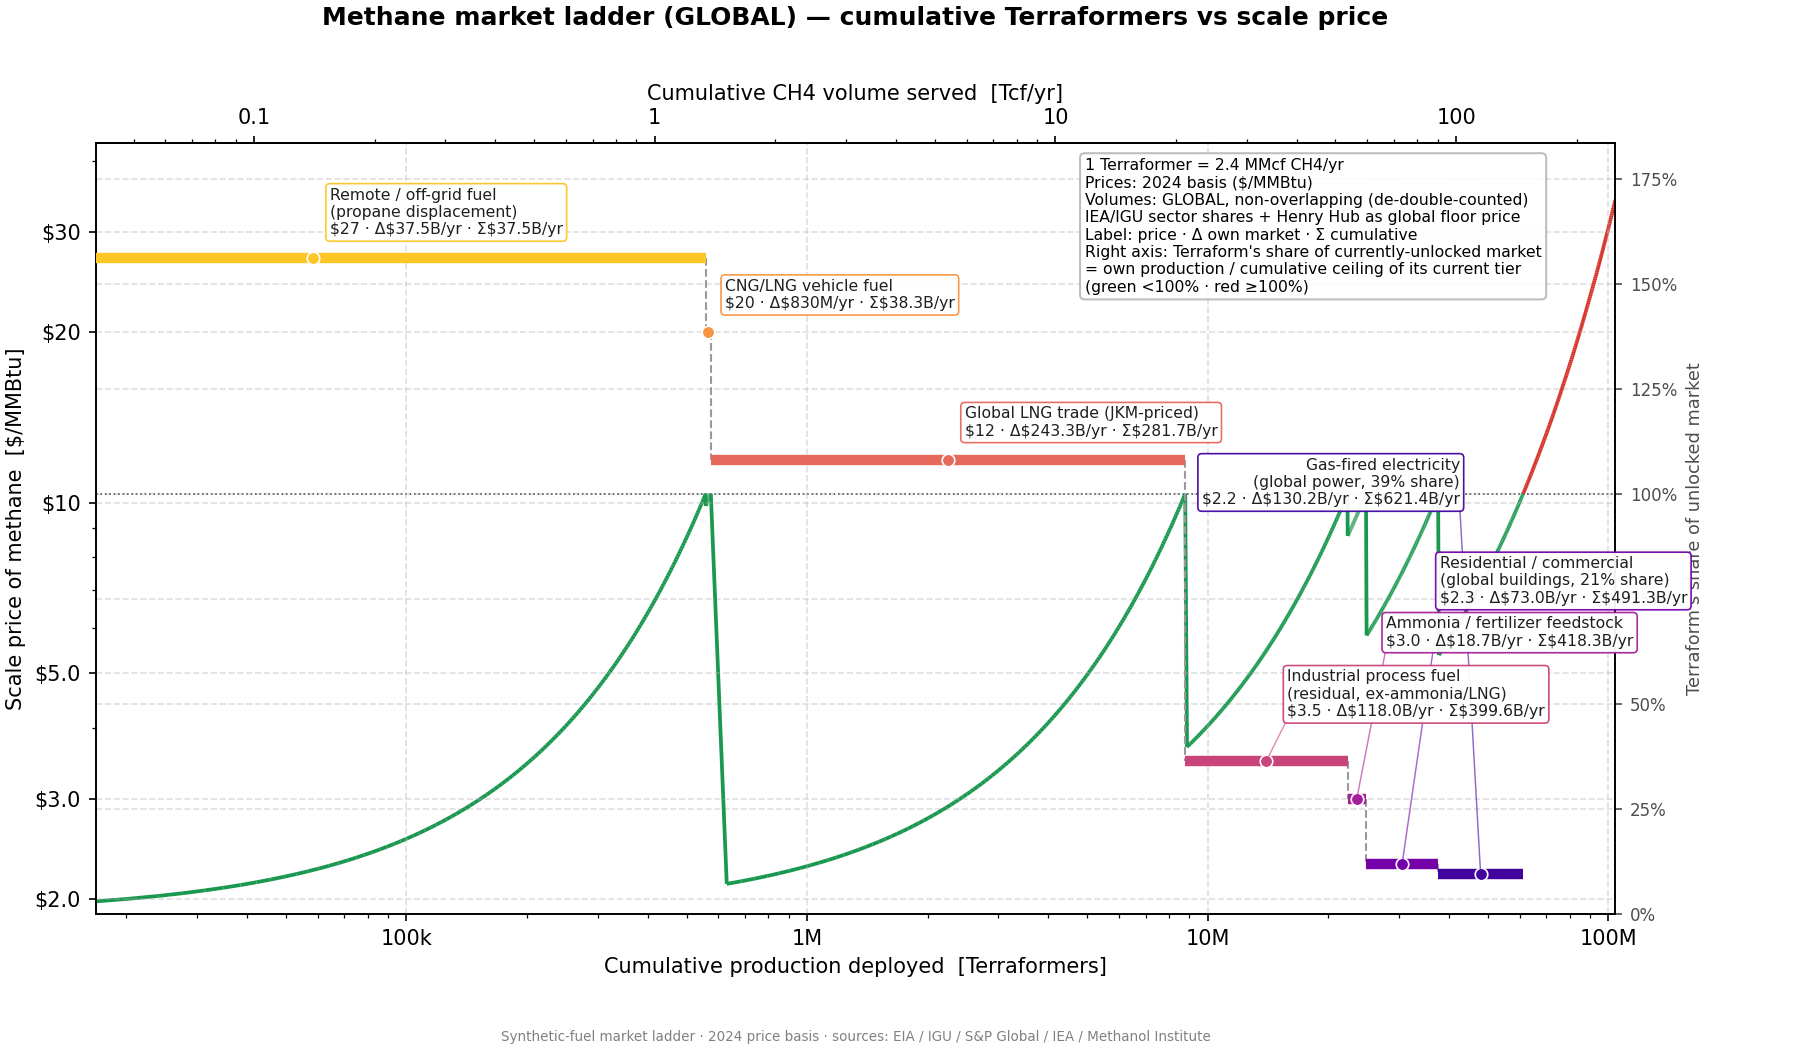
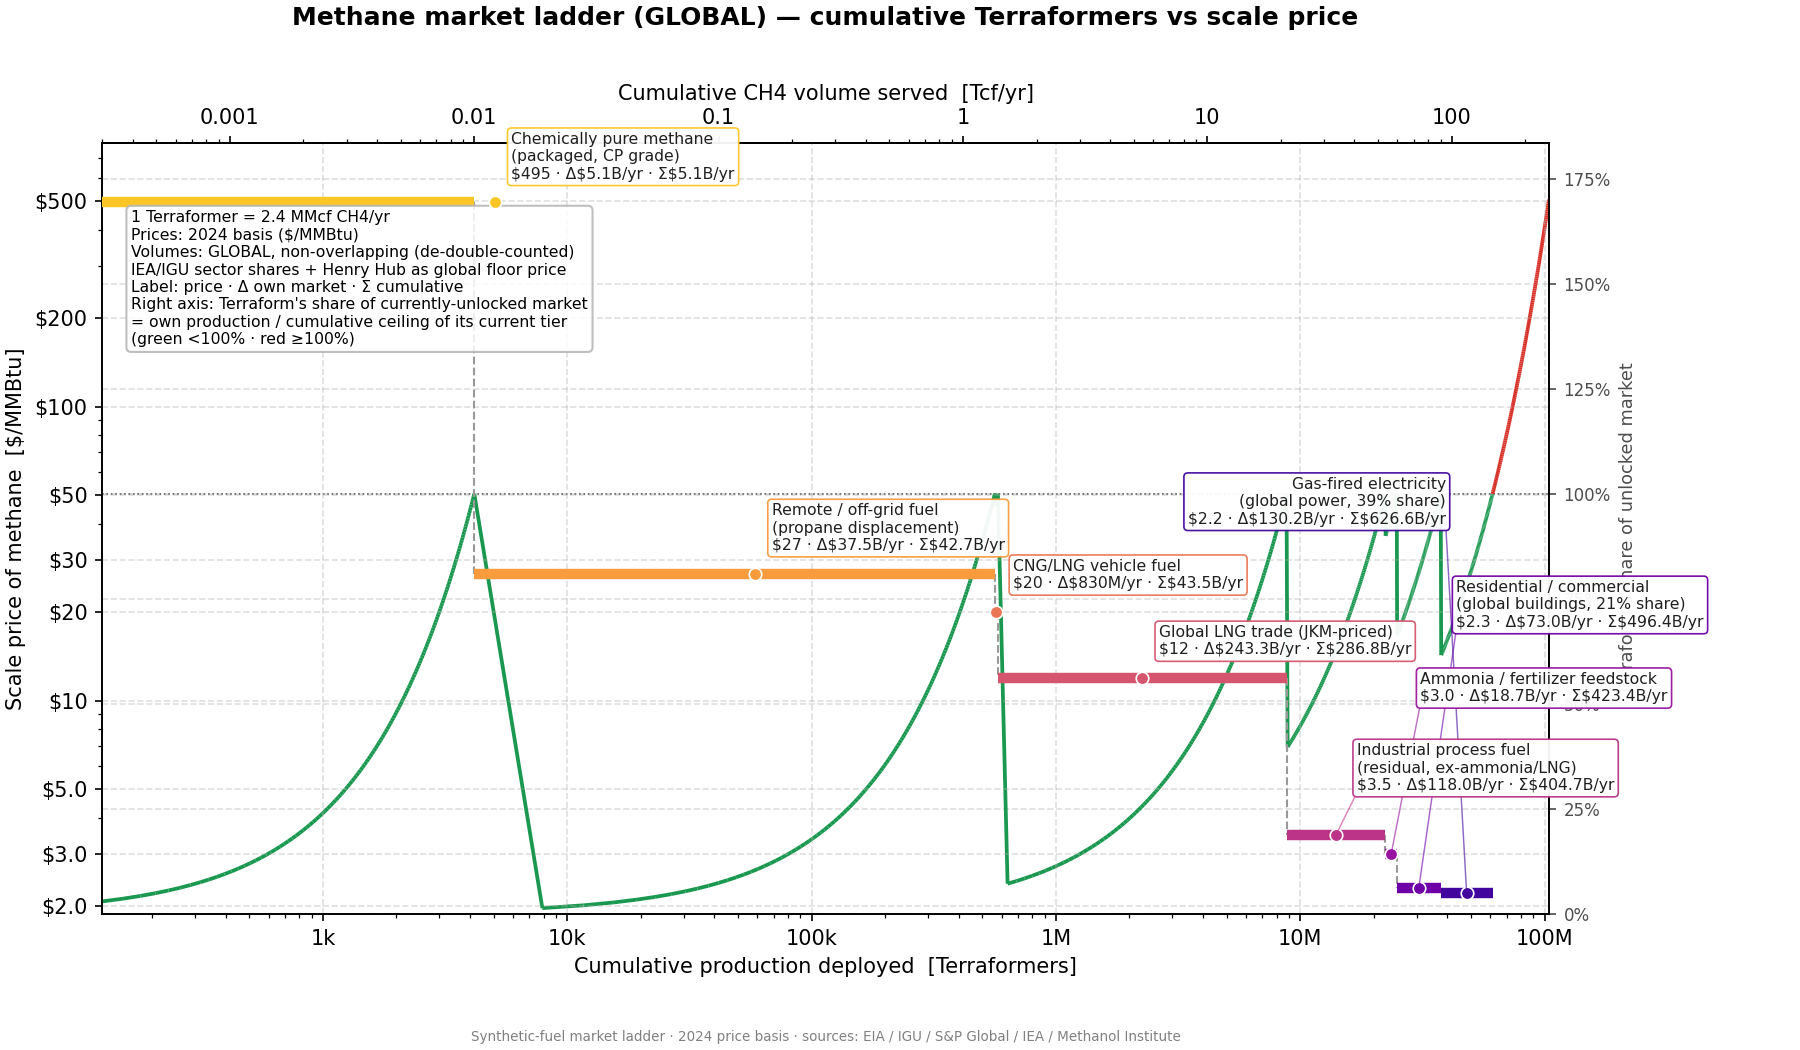
share

diff --git a/Terraform-Market-Ladder/terraformer_market_ladder.py b/Terraform-Market-Ladder/terraformer_market_ladder.py
@@ -107,10 +107,22 @@ class LadderStep:
 #                            volumes — no global physical-volume source was found for these
 #                            two niche tiers. At <1% of the 145.6 Tcf total, layering them on
 #                            top is an immaterial, flagged approximation, not a sourced figure.
-#   Industrial/residential reference prices are US benchmarks (EIA) used as a GLOBAL proxy in
-#   the absence of a single blended global price — same convention Casey's own chart uses for
-#   Henry Hub as a "global bulk" floor price.
+#   Chemically pure methane (packaged, CP grade): $495/MMBtu is Terraform's own stated price
+#                            for this tier, used directly (not re-derived). Cross-checked against
+#                            independently sourced cylinder-gas comparables: US retail specialty
+#                            cylinders (CalGasDirect/GASCO CP 99.5%, 305-650L) run ~$29,400-
+#                            60,200/MMBtu, and a Chinese bulk-wholesale cylinder listing (Forterra
+#                            Gas, 99.9-99.999%, 40L @150 bar, 200+ unit rate) computes to
+#                            ~$226-242/MMBtu after a real-gas compressibility correction (Z~0.87
+#                            at 150 bar). $495/MMBtu sits ~2x above that bulk-wholesale floor and
+#                            ~60-400x below retail cylinder pricing — a believable "packaged,
+#                            bulk-delivered, no retail markup" price point, not an outlier.
+#                            Volume is a small ILLUSTRATIVE placeholder (no sourced market-size
+#                            figure exists for this niche a specialty-gas slice) — set smaller
+#                            than the other illustrative tiers above, consistent with "small but
+#                            high price."
 METHANE_MARKETS_GLOBAL = [
+    Market("Chemically pure methane\n(packaged, CP grade)", 495.00, 0.01),
     Market("Remote / off-grid fuel\n(propane displacement)", 27.00, 1.34),
     Market("CNG/LNG vehicle fuel", 20.00, 0.04),
     Market("Global LNG trade (JKM-priced)", 11.91, 19.7),
@@ -238,6 +250,66 @@ def build_ladder(markets: list[Market], terraformers_per_vol: float,
 
 
 # --------------------------------------------------------------------------------------
+# MODEL — Wright's Law cost decline: how much production is needed to unlock each tier,
+# and what fraction of that tier's own market that production represents.
+# --------------------------------------------------------------------------------------
+LEARNING_RATE = 0.20              # cost falls 20% every time cumulative production doubles
+START_TERRAFORMERS = 1.0          # Q0: starting cumulative production
+START_COST_PER_MMBTU = 45.0       # cost0: methane synthesis cost at Q0, $/MMBtu
+START_COST_PER_TONNE_METHANOL = 800.0   # cost0: methanol synthesis cost at Q0, $/t (matches
+                                          # Casey's own methanol starting point — above every
+                                          # feedstock-value tier's price, so all 7 need a step)
+
+
+def wrights_law_b(learning_rate: float) -> float:
+    """Wright's law exponent b in cost(Q) = cost0 * (Q/Q0)^-b, derived from the learning rate:
+    cost multiplies by (1 - learning_rate) every time cumulative production Q doubles."""
+    return -np.log2(1.0 - learning_rate)
+
+
+@dataclass
+class UnlockStep:
+    """One tier's cost-decline unlock point: how much cumulative production Wright's Law says
+    is needed for synthesis cost to reach this tier's price, and what fraction of this tier's
+    OWN market-size ceiling that production represents."""
+    tier_name: str
+    tier_price: float                  # $/MMBtu price of the tier being unlocked
+    cum_terraformers_required: float   # Q_i: cumulative production needed to reach tier_price
+    additional_terraformers: float     # Q_i - Q_(i-1): incremental production for this step
+    tier_ceiling_terraformers: float   # H_i: this tier's own cumulative market-size ceiling
+    market_share_required: float       # Q_i / H_i — can be tiny; see module docstring findings
+    multiple_of_previous: float        # Q_i / Q_(i-1) — e.g. 4.9 means "4.9x current production"
+    cost_decrease_pct: float           # % cost must fall THIS step: (prev_price - price) / prev_price
+
+
+def compute_unlock_steps(steps: list[LadderStep], learning_rate: float,
+                         start_terraformers: float, start_cost: float) -> list[UnlockStep]:
+    """Walk the ladder (already price-descending) and compute, for every tier NOT already
+    unlocked at the starting cost, the cumulative production Wright's Law requires to reach
+    that tier's price, and the resulting share of that tier's own market ceiling.
+
+    Tiers priced at or above start_cost are skipped — they're already profitable at Q0, no
+    cost decline needed. This mirrors add_market_share_axis()'s share = x / H_current_tier
+    definition exactly, just evaluated at cost-derived x values instead of a continuous sweep.
+    """
+    b = wrights_law_b(learning_rate)
+    results: list[UnlockStep] = []
+    prev_q = start_terraformers
+    prev_price = start_cost
+    for s in steps:
+        if s.price >= start_cost:
+            continue
+        q_i = start_terraformers * (start_cost / s.price) ** (1.0 / b)
+        q_i = max(q_i, prev_q)
+        cost_decrease_pct = (prev_price - s.price) / prev_price * 100.0
+        results.append(UnlockStep(s.name, s.price, q_i, q_i - prev_q, s.cum_hi,
+                                  q_i / s.cum_hi, q_i / prev_q, cost_decrease_pct))
+        prev_q = q_i
+        prev_price = s.price
+    return results
+
+
+# --------------------------------------------------------------------------------------
 # PLOTTING — one draw() for both ladders
 # --------------------------------------------------------------------------------------
 def _fmt_dollars(v: float) -> str:
@@ -334,7 +406,7 @@ _DEFAULT_OFFSET = (8, 10, "left", "bottom")
 
 def draw(ax, fig, steps: list[LadderStep], *, title: str, y_label: str, x_top_label: str,
          top_per_terraformer_vol: float, yscale: str, price_fmt, y_ticks,
-         top_fmt, label_offsets: dict, param_text: str) -> None:
+         top_fmt, label_offsets: dict, param_text: str, show_market_share: bool = True) -> None:
     """Draw a descending market-ladder staircase with annotated steps.
 
     top_per_terraformer_vol : native volume per Terraformer, to label a secondary top x-axis
@@ -344,6 +416,9 @@ def draw(ax, fig, steps: list[LadderStep], *, title: str, y_label: str, x_top_la
                               never a distant shared column. Tune only the overlapping
                               neighbours (see skill: "Labels overlap into mush"); unlisted
                               names fall back to _DEFAULT_OFFSET.
+    show_market_share       : add the secondary "Terraform's share of unlocked market" axis.
+                              Off produces the plain market ladder (price vs. cumulative
+                              production only) — same core chart, no twin axis at all.
     """
     n = len(steps)
     colors = cm.plasma_r(np.linspace(0.12, 0.9, n))
@@ -422,7 +497,12 @@ def draw(ax, fig, steps: list[LadderStep], *, title: str, y_label: str, x_top_la
     secax.xaxis.set_major_formatter(FuncFormatter(lambda v, _: top_fmt(v)))
     secax.xaxis.set_minor_formatter(NullFormatter())
 
-    add_market_share_axis(ax, steps)
+    if show_market_share:
+        add_market_share_axis(ax, steps)
+        param_text = (param_text + "\n"
+                      "Right axis: Terraform's share of currently-unlocked market\n"
+                      "= own production / cumulative ceiling of its current tier\n"
+                      "(green <100% · red ≥100%)")
 
     # Signature footer (fixed, below the axes — never competes with the in-axes scan below).
     ax.text(0.5, -0.15, SIGNATURE, transform=ax.transAxes, ha="center", va="top",
@@ -435,6 +515,68 @@ def draw(ax, fig, steps: list[LadderStep], *, title: str, y_label: str, x_top_la
     # fights our global constrained_layout=True (it broke the left price-axis entirely). Stick
     # with mode="on" — the twin axis's line/ticks are made visible to this scan via the phantom
     # mirror artists added at the end of add_market_share_axis(), above.
+    info_box.add_info_box(ax, fig, param_text, mode="on", fontsize=7.5)
+
+
+def draw_unlock_bar_chart(ax, fig, unlock_steps: list[UnlockStep], *, title: str,
+                          param_text: str) -> None:
+    """Bar chart: one bar per tier, x = tier (in unlock order), y = market_share_required —
+    the fraction of that tier's own market ceiling that Wright's-Law-implied cumulative
+    production represents at the moment synthesis cost first reaches that tier's price.
+
+    Log-scale y-axis: real values here span ~0.0007%-0.03% (~40x range) — a linear axis would
+    render every bar as visually zero. Log is what makes the actual spread readable.
+    """
+    n = len(unlock_steps)
+    colors = cm.plasma_r(np.linspace(0.12, 0.9, n))
+    x = np.arange(n)
+    shares_pct = [u.market_share_required * 100 for u in unlock_steps]
+
+    ax.bar(x, shares_pct, color=colors, edgecolor="0.3", linewidth=0.8, zorder=3)
+    for xi, u, pct in zip(x, unlock_steps, shares_pct):
+        # Everything for one bar stacks VERTICALLY, directly above that bar and nothing else —
+        # each line kept short enough to stay within the bar's own horizontal footprint, so
+        # neighbouring bars' text can never collide regardless of bar height (no zigzag needed).
+        # Floats above the bar (white background), not inside its colored fill — grey text read
+        # fine against light yellow/orange bars but was illegible against the dark purple end.
+        ax.annotate(f"{pct:.4f}%", xy=(xi, pct), xytext=(0, 26), textcoords="offset points",
+                    ha="center", va="bottom", fontsize=8, weight="bold", zorder=5)
+        ax.annotate(f"Q={_human(u.cum_terraformers_required)} ({u.multiple_of_previous:.1f}x)\n"
+                   f"cost −{u.cost_decrease_pct:.1f}%",
+                    xy=(xi, pct), xytext=(0, 4), textcoords="offset points",
+                    ha="center", va="bottom", fontsize=6.3, color="0.3", zorder=5, linespacing=1.4)
+
+    ax.set_xticks(x)
+    ax.set_xticklabels([u.tier_name.replace("\n", " ") for u in unlock_steps],
+                       rotation=30, ha="right", fontsize=8)
+    ax.set_yscale("log")
+    ax.set_ylabel("Required market share to unlock this tier\n(cumulative production ÷ tier's own market ceiling)")
+    ax.set_xlabel("Step (tier unlocked, in order)")
+    ax.set_title(title, fontsize=12, weight="bold", pad=14)
+    ax.yaxis.set_major_formatter(FuncFormatter(lambda v, _: f"{v:g}%"))
+    ax.set_ylim(min(shares_pct) * 0.5, max(shares_pct) * 6.0)
+    ax.margins(x=0.06)
+
+    # info_box's occupancy scan checks ax.get_lines() and ax.collections — it never looks at
+    # ax.patches, so it is completely blind to ax.bar()'s Rectangle patches and can place the
+    # box right on top of a tall bar (happened here: methanol's tallest bars sit at the left,
+    # where the scan otherwise had no text/lines to avoid). Mirroring just the bar's OUTLINE
+    # (4 corners) was tried first and didn't work: the scan scores occupancy by counting
+    # sampled points that fall INSIDE a candidate box, so a box positioned entirely within the
+    # bar's interior (never touching the 4 corner points) still scored as empty. Fill each
+    # bar's full rectangle with a point grid instead, so any overlap is detected everywhere,
+    # not just at the edges. Log-spaced in y to match the log axis's actual pixel density.
+    y_bottom = ax.get_ylim()[0]
+    bar_width = 0.8
+    for xi, pct in zip(x, shares_pct):
+        bx0, bx1 = xi - bar_width / 2, xi + bar_width / 2
+        xs_grid = np.linspace(bx0, bx1, 6)
+        ys_grid = np.geomspace(max(y_bottom, 1e-12), pct, 6)
+        xx, yy = np.meshgrid(xs_grid, ys_grid)
+        ax.plot(xx.ravel(), yy.ravel(), alpha=0, marker=".", linestyle="none")
+
+    ax.text(0.5, -0.34, SIGNATURE, transform=ax.transAxes, ha="center", va="top",
+           fontsize=6.5, color="0.5")
     info_box.add_info_box(ax, fig, param_text, mode="on", fontsize=7.5)
 
 
@@ -457,10 +599,7 @@ def figures():
                       "Prices: 2024 basis ($/MMBtu)\n"
                       "Volumes: GLOBAL, non-overlapping (de-double-counted)\n"
                       "IEA/IGU sector shares + Henry Hub as global floor price\n"
-                      "Label: price · Δ own market · Σ cumulative\n"
-                      "Right axis: Terraform's share of currently-unlocked market\n"
-                      "= own production / cumulative ceiling of its current tier\n"
-                      "(green <100% · red ≥100%)")
+                      "Label: price · Δ own market · Σ cumulative")
 
     # Methanol (feedstock) clusters near $340-380: same cascade-from-own-dot treatment.
     methanol_fs_offsets = {
@@ -474,10 +613,7 @@ def figures():
                        "y = methanol netback / reference value\n"
                        "FEEDSTOCK-VALUE approach: Terraform sells methanol,\n"
                        "not the converted end-product (see MTX-TAM variant)\n"
-                       "Label: price · Δ own market · Σ cumulative\n"
-                       "Right axis: Terraform's share of currently-unlocked market\n"
-                       "= own production / cumulative ceiling of its current tier\n"
-                       "(green <100% · red ≥100%)")
+                       "Label: price · Δ own market · Σ cumulative")
 
     # Methanol (MTX-TAM): same $340-380 cluster, plus the 223/190/167 gasoline-diesel-jet
     # cluster now needs its own cascade (their Terraformer widths are huge, spreading them out
@@ -500,12 +636,12 @@ def figures():
                        "Non-MTX tiers still feedstock-value (unchanged)\n"
                        "Conversion ratios: MTG 2.584 (sourced, Motunui); others\n"
                        "2.9 (MTO rule-of-thumb, extended to diesel/jet — ASSUMPTION)\n"
-                       "Label: price · Δ own market · Σ cumulative\n"
-                       "Right axis: Terraform's share of currently-unlocked market\n"
-                       "= own production / cumulative ceiling of its current tier\n"
-                       "(green <100% · red ≥100%)")
+                       "Label: price · Δ own market · Σ cumulative")
 
-    def build_methane():
+    # Every chart comes in two variants: with the market-share twin axis, and the plain ladder
+    # (price vs. cumulative production only) — same underlying draw(), just show_market_share
+    # toggled and a "_no_share" filename suffix for the plain version.
+    def build_methane(share: bool):
         fig, ax = render.new_figure(figsize=(12, 7))
         draw(ax, fig, methane,
              title="Methane market ladder (GLOBAL) — cumulative Terraformers vs scale price",
@@ -514,13 +650,49 @@ def figures():
              top_per_terraformer_vol=TERRAFORMER_CH4_MMCF_YR / MMCF_PER_TCF,  # Tcf per Terraformer
              yscale="log",
              price_fmt=lambda p: f"${p:,.0f}" if p >= 10 else f"${p:,.1f}",
-             y_ticks=[2, 3, 5, 10, 20, 30],
+             y_ticks=[2, 3, 5, 10, 20, 30, 50, 100, 200, 500],
              top_fmt=lambda v: f"{v:g}",
              label_offsets=methane_offsets,
-             param_text=methane_params)
-        return fig, OUTPUT_ROOT / "methane_market_ladder.png"
+             param_text=methane_params, show_market_share=share)
+        suffix = "" if share else "_no_share"
+        return fig, OUTPUT_ROOT / f"methane_market_ladder{suffix}.png"
 
-    def build_methanol_feedstock():
+    def build_methane_unlock_bars(learning_rate: float):
+        rate_steps = compute_unlock_steps(methane, learning_rate, START_TERRAFORMERS,
+                                          START_COST_PER_MMBTU)
+        params = (f"Wright's Law: {learning_rate:.0%} learning rate\n"
+                 f"Start: {START_TERRAFORMERS:g} Terraformer @ ${START_COST_PER_MMBTU:.0f}/MMBtu\n"
+                 "Required share = cumulative production needed for\n"
+                 "cost to reach that tier's price, ÷ tier's own market ceiling\n"
+                 "\"Chemically pure methane\" tier excluded — already\n"
+                 "unlocked at the starting cost, no cost decline needed")
+        fig, ax = render.new_figure(figsize=(12, 7))
+        draw_unlock_bar_chart(ax, fig, rate_steps,
+                              title=f"Methane: required market share to unlock each tier"
+                                   f" (Wright's Law, {learning_rate:.0%} LR)",
+                              param_text=params)
+        return fig, OUTPUT_ROOT / f"methane_unlock_share_bars_lr{learning_rate * 100:.0f}.png"
+
+    def build_methanol_unlock_bars(learning_rate: float):
+        # methanol_fs tiers top out at $600/t, below the $800/t starting cost — every tier
+        # (unlike methane's pre-unlocked "chemically pure" beachhead) needs a cost-decline step.
+        rate_steps = compute_unlock_steps(methanol_fs, learning_rate, START_TERRAFORMERS,
+                                          START_COST_PER_TONNE_METHANOL)
+        params = (f"Wright's Law: {learning_rate:.0%} learning rate\n"
+                 f"Start: {START_TERRAFORMERS:g} Terraformer @"
+                 f" ${START_COST_PER_TONNE_METHANOL:.0f}/t (Casey's own starting point)\n"
+                 "Required share = cumulative production needed for\n"
+                 "cost to reach that tier's price, ÷ tier's own market ceiling\n"
+                 "Feedstock-value ladder: every tier priced below the\n"
+                 "starting cost — all 7 tiers need a cost-decline step")
+        fig, ax = render.new_figure(figsize=(12, 7))
+        draw_unlock_bar_chart(ax, fig, rate_steps,
+                              title=f"Methanol: required market share to unlock each tier"
+                                   f" (Wright's Law, {learning_rate:.0%} LR)",
+                              param_text=params)
+        return fig, OUTPUT_ROOT / f"methanol_unlock_share_bars_lr{learning_rate * 100:.0f}.png"
+
+    def build_methanol_feedstock(share: bool):
         fig, ax = render.new_figure(figsize=(12, 7))
         draw(ax, fig, methanol_fs,
              title="Methanol market ladder (feedstock-value) — cumulative Terraformers vs scale price",
@@ -532,10 +704,11 @@ def figures():
              y_ticks=None,
              top_fmt=lambda v: f"{v:g}",
              label_offsets=methanol_fs_offsets,
-             param_text=methanol_fs_params)
-        return fig, OUTPUT_ROOT / "methanol_market_ladder.png"
+             param_text=methanol_fs_params, show_market_share=share)
+        suffix = "" if share else "_no_share"
+        return fig, OUTPUT_ROOT / f"methanol_market_ladder{suffix}.png"
 
-    def build_methanol_tam():
+    def build_methanol_tam(share: bool):
         fig, ax = render.new_figure(figsize=(12, 7))
         draw(ax, fig, methanol_tam,
              title="Methanol market ladder (destination-product TAM) — cumulative Terraformers vs scale price",
@@ -547,12 +720,19 @@ def figures():
              y_ticks=None,
              top_fmt=lambda v: f"{v:g}",
              label_offsets=methanol_tam_offsets,
-             param_text=methanol_tam_params)
-        return fig, OUTPUT_ROOT / "methanol_market_ladder_mtx_tam.png"
+             param_text=methanol_tam_params, show_market_share=share)
+        suffix = "" if share else "_no_share"
+        return fig, OUTPUT_ROOT / f"methanol_market_ladder_mtx_tam{suffix}.png"
 
-    return [("methane", build_methane),
-            ("methanol_feedstock", build_methanol_feedstock),
-            ("methanol_mtx_tam", build_methanol_tam)]
+    return [("methane_with_share", lambda: build_methane(True)),
+            ("methane_no_share", lambda: build_methane(False)),
+            ("methane_unlock_bars_lr20", lambda: build_methane_unlock_bars(0.20)),
+            ("methanol_unlock_bars_lr20", lambda: build_methanol_unlock_bars(0.20)),
+            ("methanol_unlock_bars_lr10", lambda: build_methanol_unlock_bars(0.10)),
+            ("methanol_feedstock_with_share", lambda: build_methanol_feedstock(True)),
+            ("methanol_feedstock_no_share", lambda: build_methanol_feedstock(False)),
+            ("methanol_mtx_tam_with_share", lambda: build_methanol_tam(True)),
+            ("methanol_mtx_tam_no_share", lambda: build_methanol_tam(False))]
 
 
 if __name__ == "__main__":
@@ -578,3 +758,15 @@ if __name__ == "__main__":
     total_meoh_equiv_mt = meoh_tam[-1].cum_hi / TERRAFORMERS_PER_MT_MEOH
     print(f"Full MTX-TAM build-out implies ~{total_meoh_equiv_mt:,.0f} Mt/yr methanol-equivalent production"
           f" — ~{total_meoh_equiv_mt/100:.0f}x today's entire global methanol market (~100 Mt/yr).")
+
+    unlock_steps = compute_unlock_steps(methane_g, LEARNING_RATE, START_TERRAFORMERS, START_COST_PER_MMBTU)
+    last = unlock_steps[-1]
+    print(f"\nWright's Law ({LEARNING_RATE:.0%} LR) from {START_TERRAFORMERS:g} Terraformer @"
+          f" ${START_COST_PER_MMBTU:.0f}/MMBtu:")
+    print(f"  Cost reaches the FULL ladder's bulk floor (${last.tier_price:.2f}/MMBtu, {last.tier_name})"
+          f" after only ~{last.cum_terraformers_required:,.0f} cumulative Terraformers"
+          f" — {last.market_share_required*100:.4f}% of that tier's own {last.tier_ceiling_terraformers:,.0f}"
+          f"-Terraformer market ceiling.")
+    print("  Every intermediate tier's required share is similarly tiny (0.0007%-0.03%) — cost decline "
+         "vastly outpaces market size. The real constraint on how fast Terraform can grow into these "
+         "markets is production RAMP, not the learning rate.")
